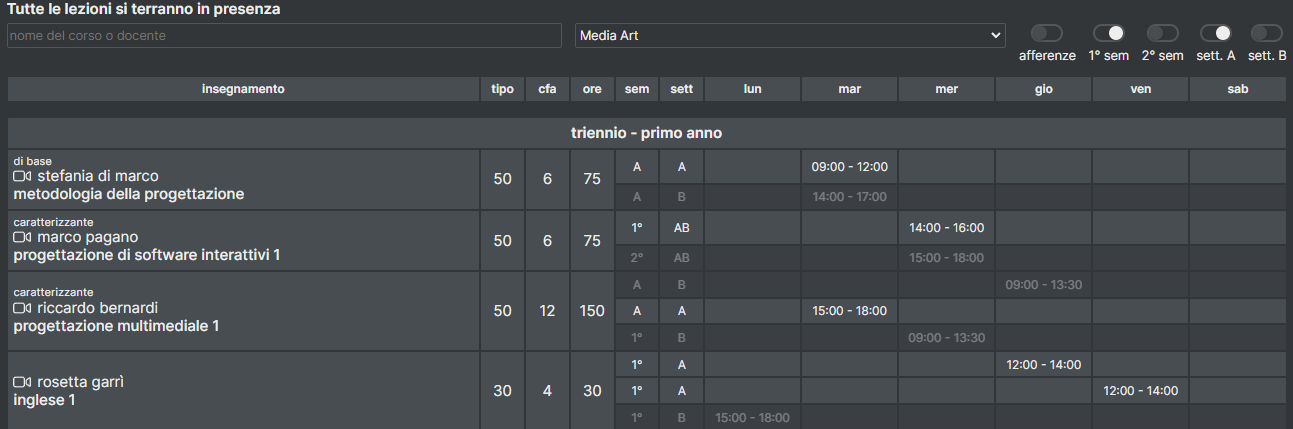
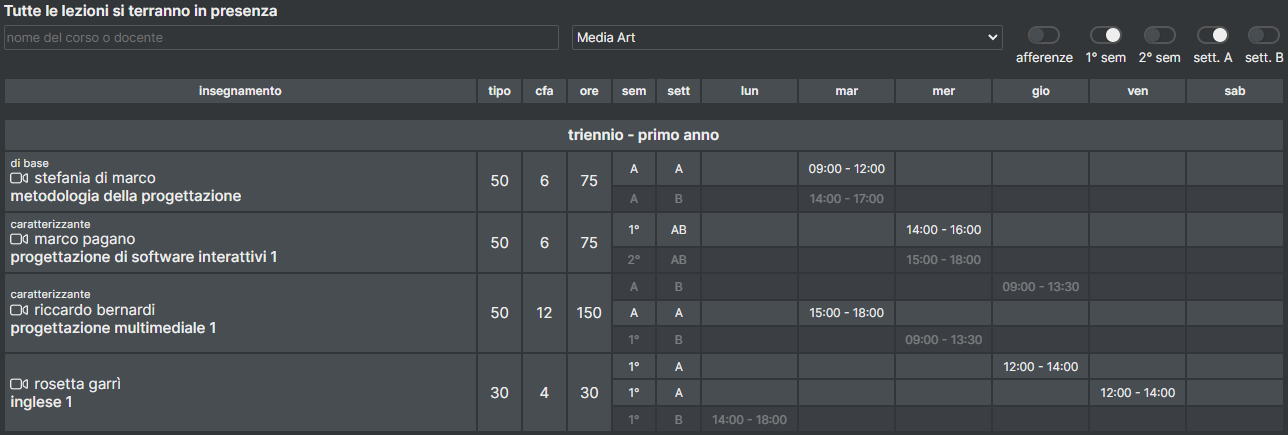
22/11/2022

diff --git a/index.html b/index.html
@@ -17,7 +17,7 @@
     <div class="container">
         <div class="banner"> 
             <div class="app-text">
-                <h2>Media Art - Class Schedule (last update: 17/11/2022)</h2>
+                <h2>Media Art - Class Schedule (last update: 22/11/2022)</h2>
             </div>
         </div>
         <br></br>
